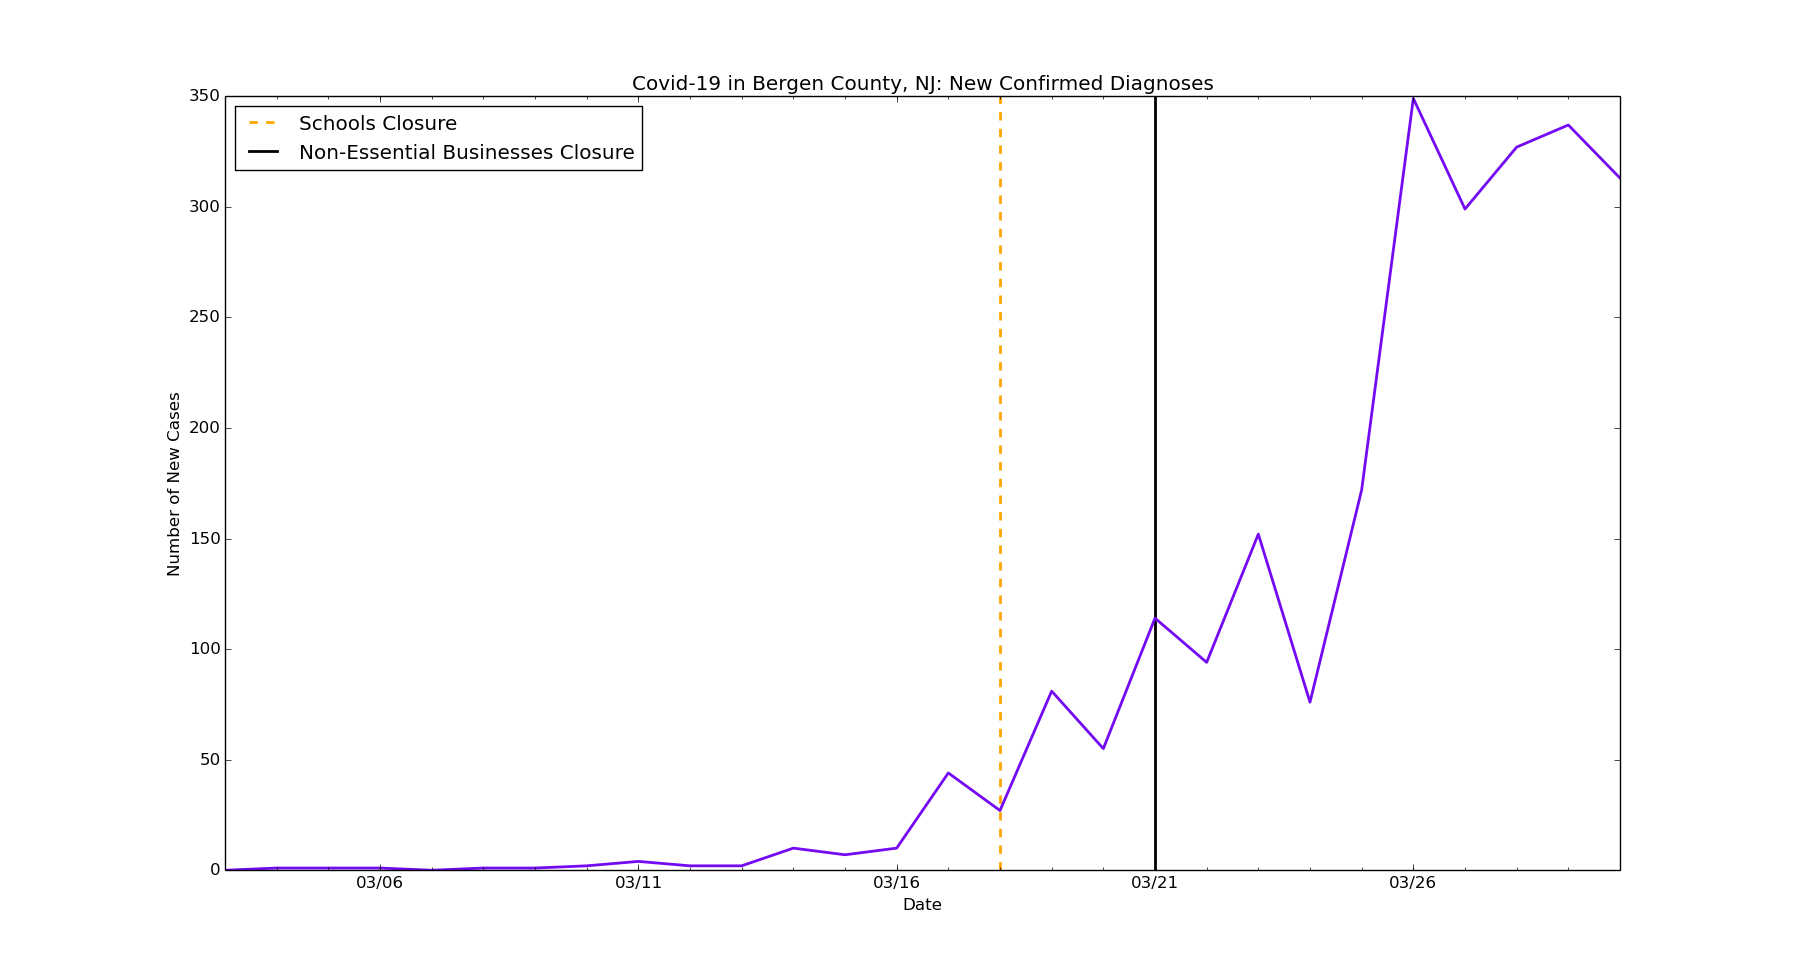
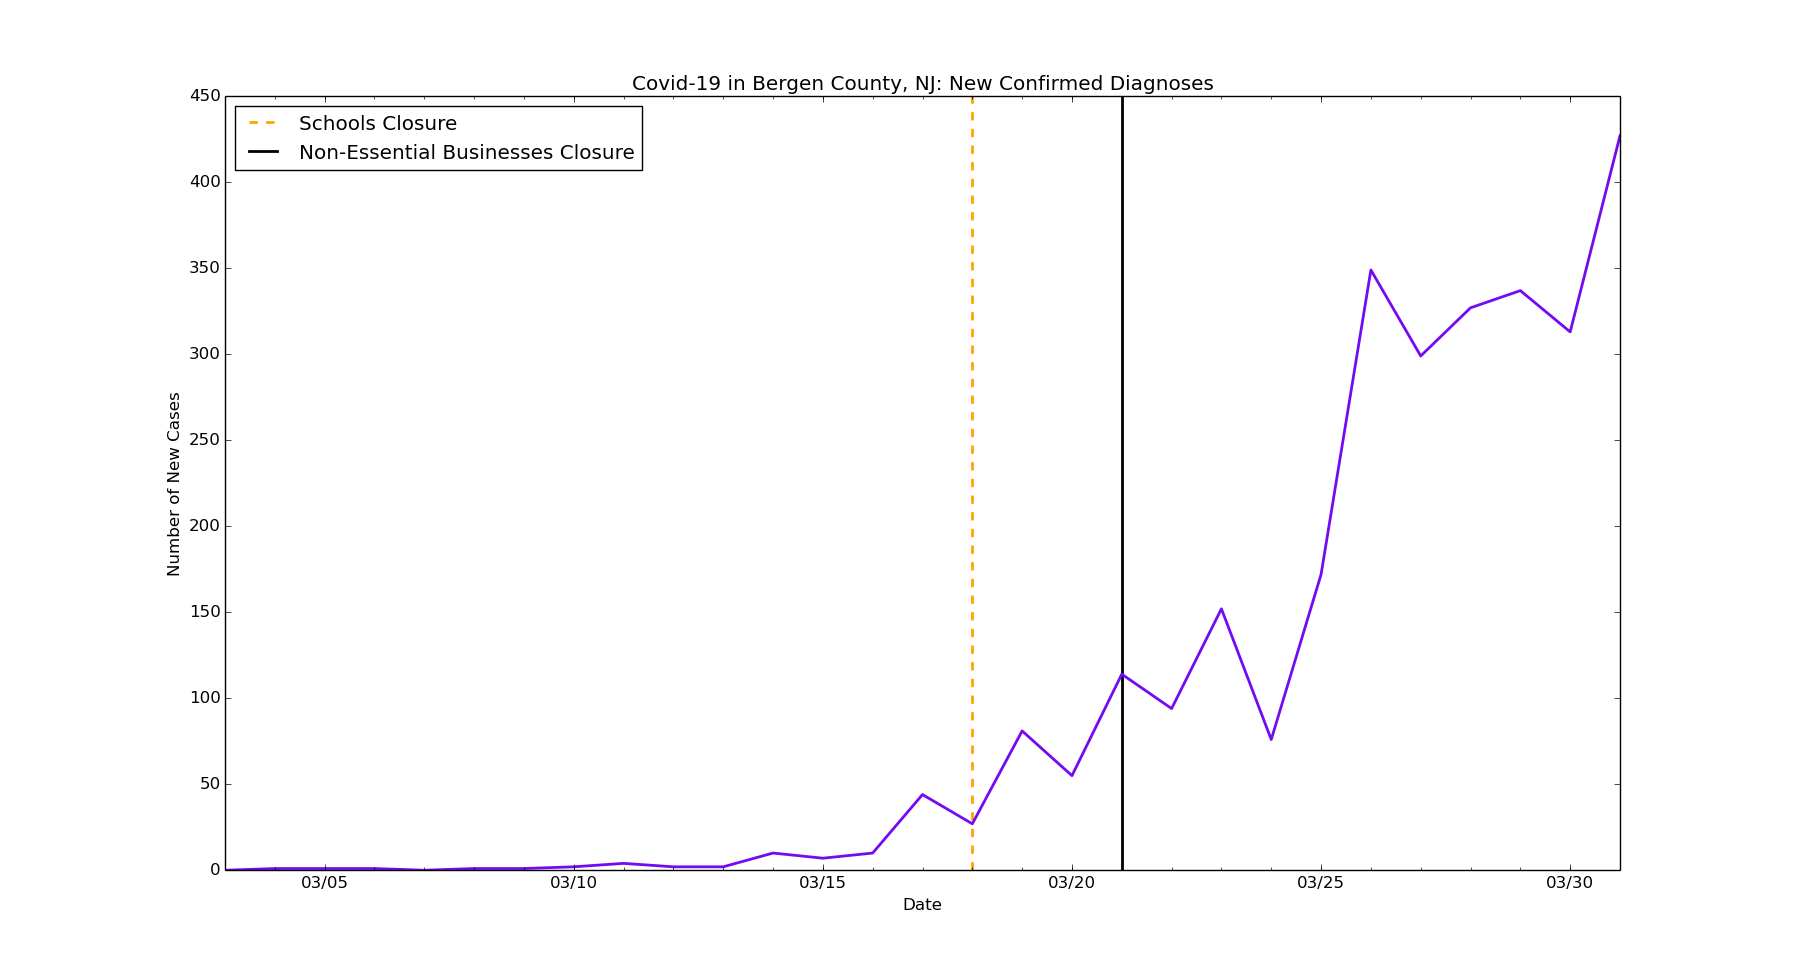
chore: Update data for Bergen County

diff --git a/bergen-county/bergen-new-cases.py b/bergen-county/bergen-new-cases.py
@@ -6,7 +6,7 @@ import matplotlib.dates as mdates
 import matplotlib.ticker as ticker
 from matplotlib.dates import MO, TU, WE, TH, FR, SA, SU
 
-dates = ['3/3/2020', '3/4/2020', '3/5/2020', '3/6/2020', '3/7/2020', '3/8/2020', '3/9/2020', '3/10/2020', '3/11/2020', '3/12/2020', '3/13/2020', '3/14/2020', '3/15/2020', '3/16/2020', '3/17/2020', '3/18/2020', '3/19/2020', '3/20/2020', '3/21/2020', '3/22/2020', '3/23/2020', '3/24/2020', '3/25/2020', '3/26/2020', '3/27/2020', '3/28/2020', '3/29/2020', '3/30/2020']
+dates = ['3/3/2020', '3/4/2020', '3/5/2020', '3/6/2020', '3/7/2020', '3/8/2020', '3/9/2020', '3/10/2020', '3/11/2020', '3/12/2020', '3/13/2020', '3/14/2020', '3/15/2020', '3/16/2020', '3/17/2020', '3/18/2020', '3/19/2020', '3/20/2020', '3/21/2020', '3/22/2020', '3/23/2020', '3/24/2020', '3/25/2020', '3/26/2020', '3/27/2020', '3/28/2020', '3/29/2020', '3/30/2020', '3/31/2020']
 
 # format dates
 x_values = [dt.datetime.strptime(d, "%m/%d/%Y").date() for d in dates]
@@ -29,7 +29,7 @@ plt.axvline(dt.datetime(2020, 3, 18), linestyle='--', color='orange', linewidth=
 plt.axvline(dt.datetime(2020, 3, 21), color='black', linewidth=2, label='stay at home')
 
 # new cases by day
-new_cases = [0, 1, 1, 1, 0, 1, 1, 2, 4, 2, 2, 10, 7, 10, 44, 27, 81, 55, 114, 94, 152, 76, 172, 349, 299, 327, 337, 313]
+new_cases = [0, 1, 1, 1, 0, 1, 1, 2, 4, 2, 2, 10, 7, 10, 44, 27, 81, 55, 114, 94, 152, 76, 172, 349, 299, 327, 337, 313, 427]
 
 # text labels
 plt.title('Covid-19 in Bergen County, NJ: New Confirmed Diagnoses')
